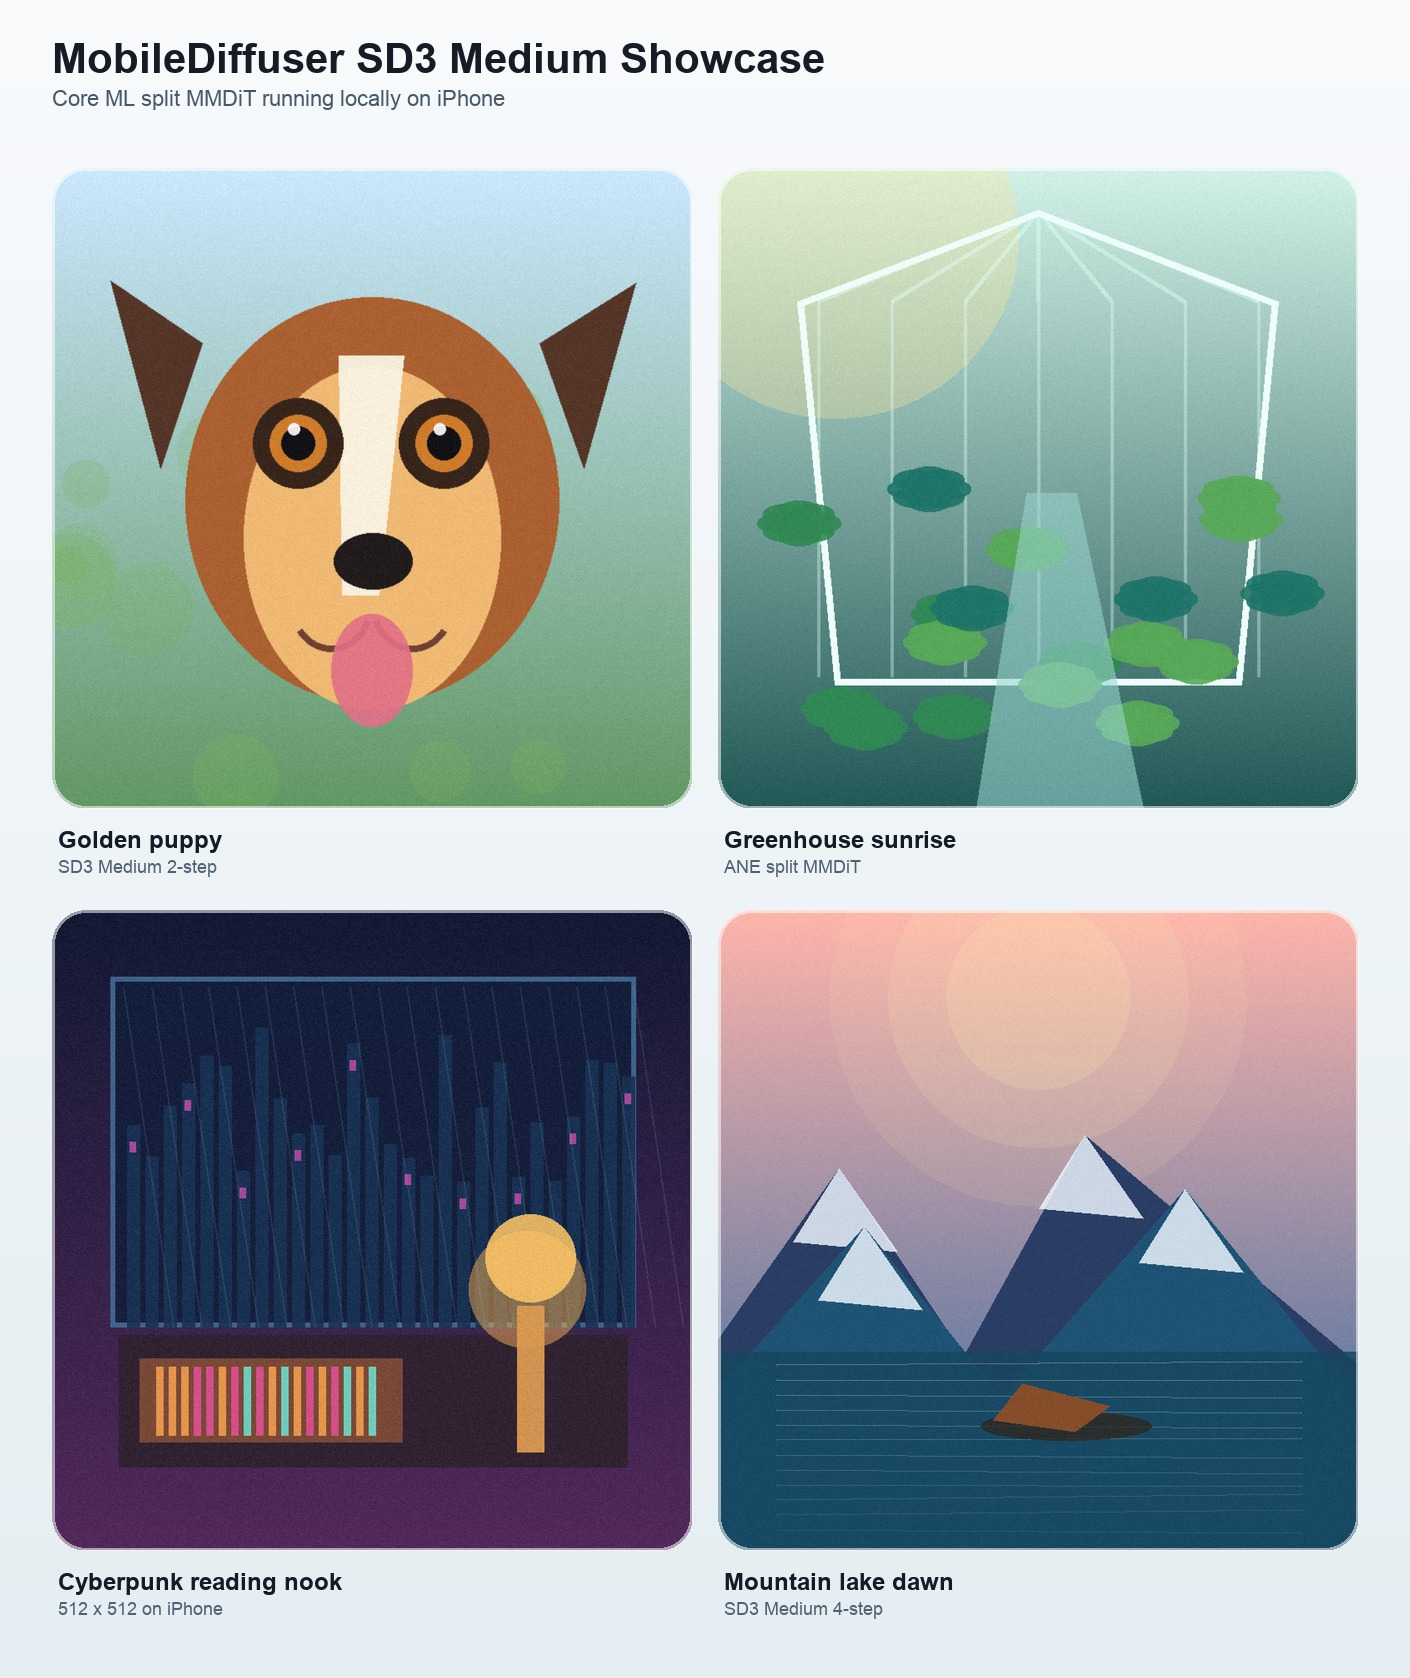
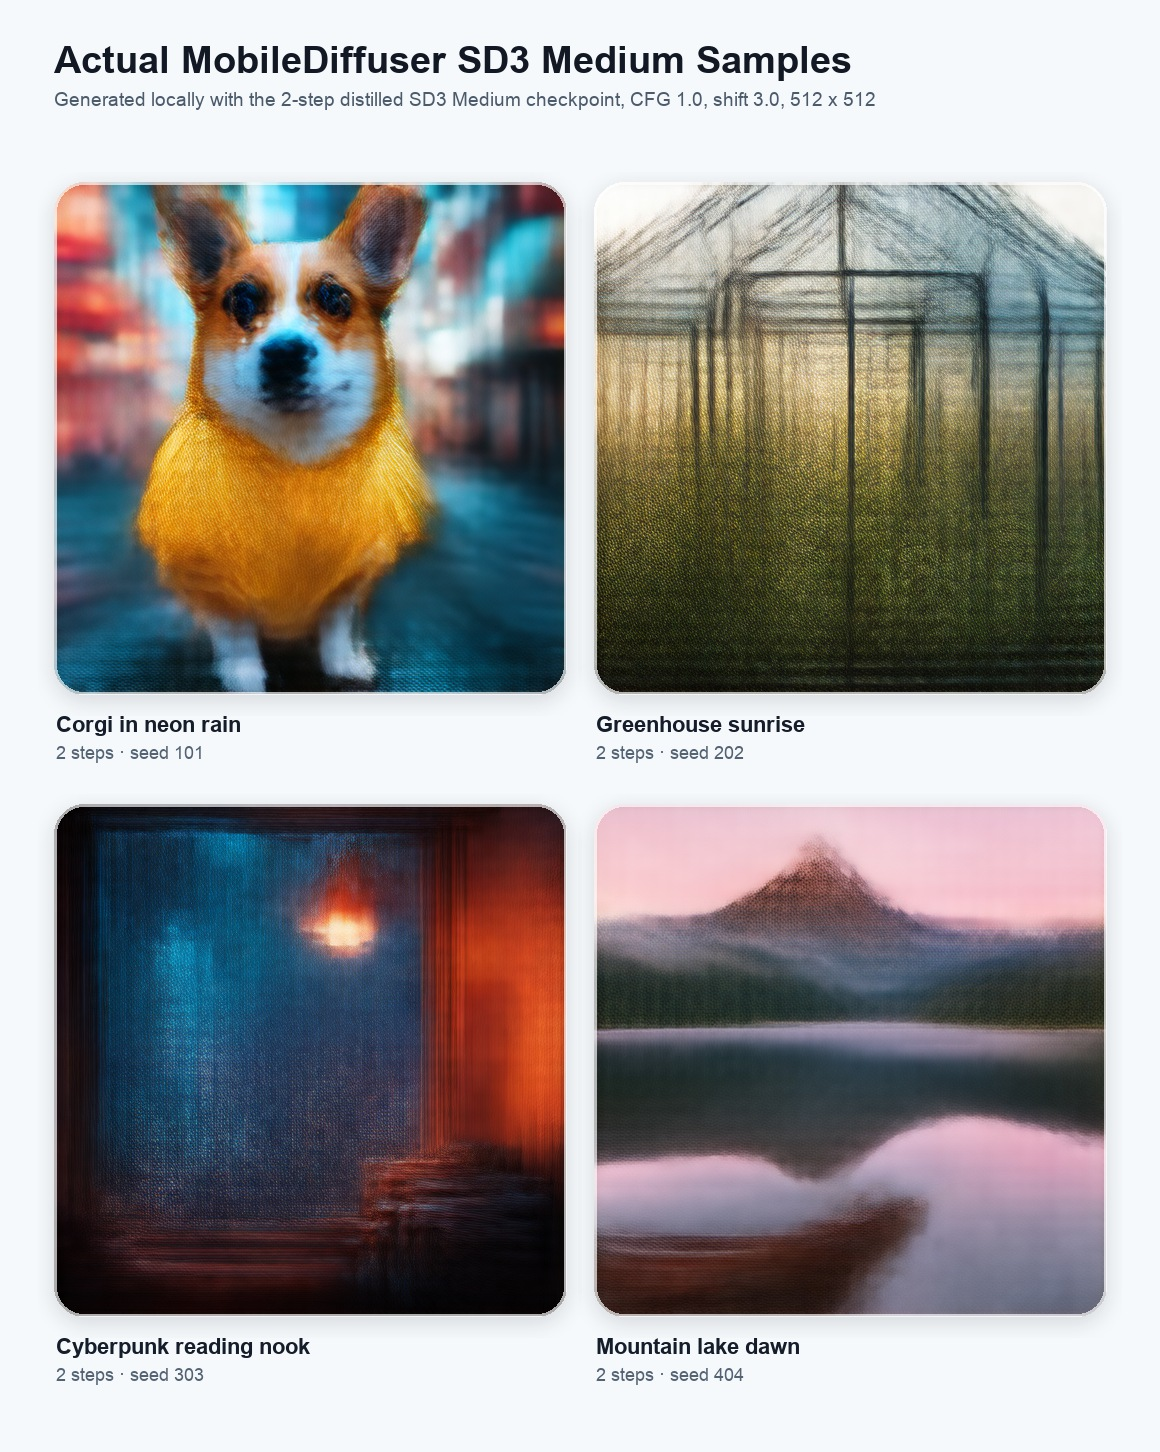
Replace showcase with real local SD3 samples

diff --git a/README.md b/README.md
@@ -16,7 +16,7 @@ not contain model weights or compiled Core ML model bundles.
 ## Screenshots
 
 <p>
-  <img src="docs/images/showcase-collage.jpg" alt="MobileDiffuser SD3 Medium generated image showcase collage">
+  <img src="docs/images/showcase-collage.jpg" alt="Actual MobileDiffuser SD3 Medium 2-step local generation samples">
 </p>
 
 | SD3 Medium 4-step | SD3 Medium 2-step |